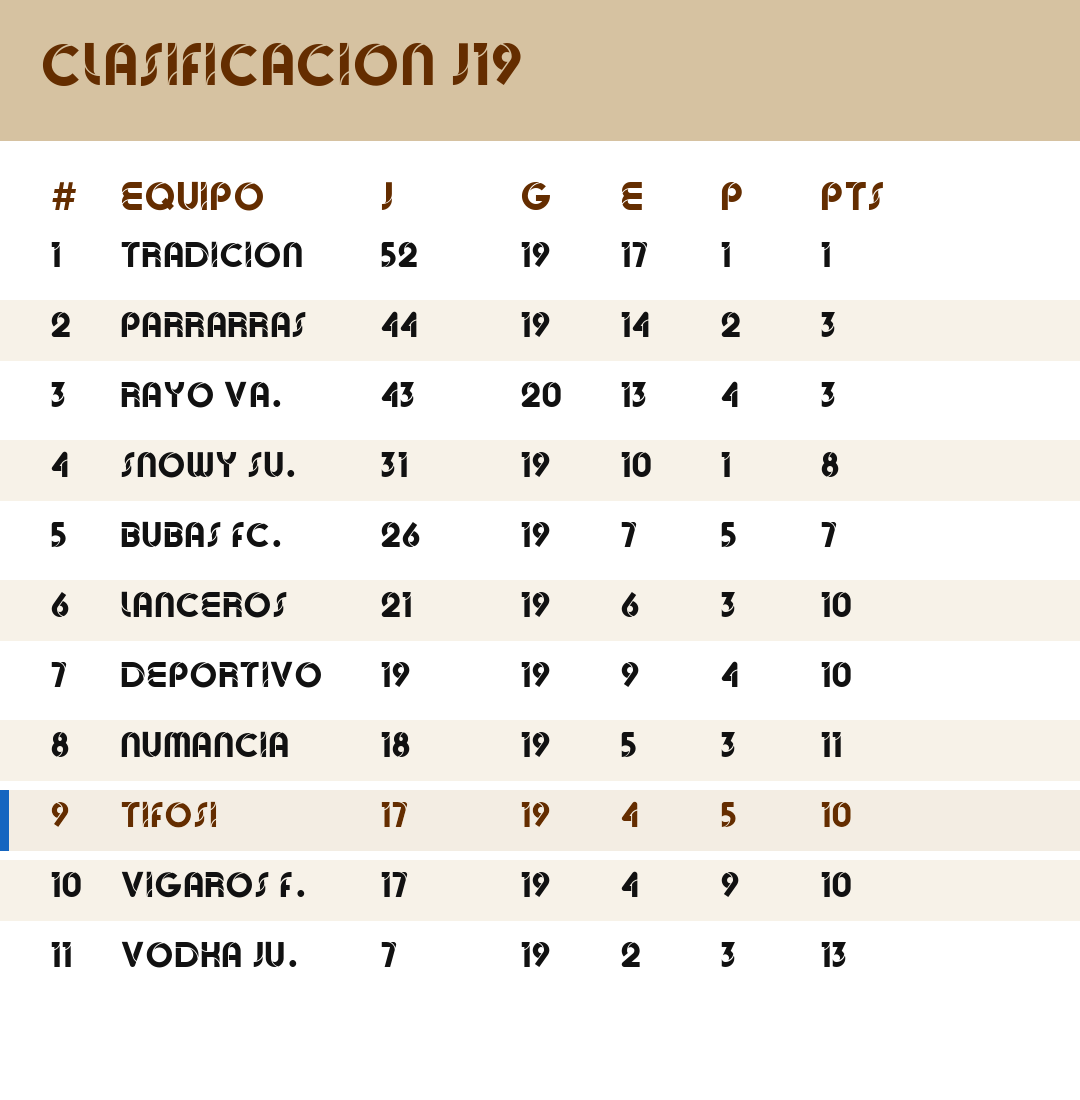
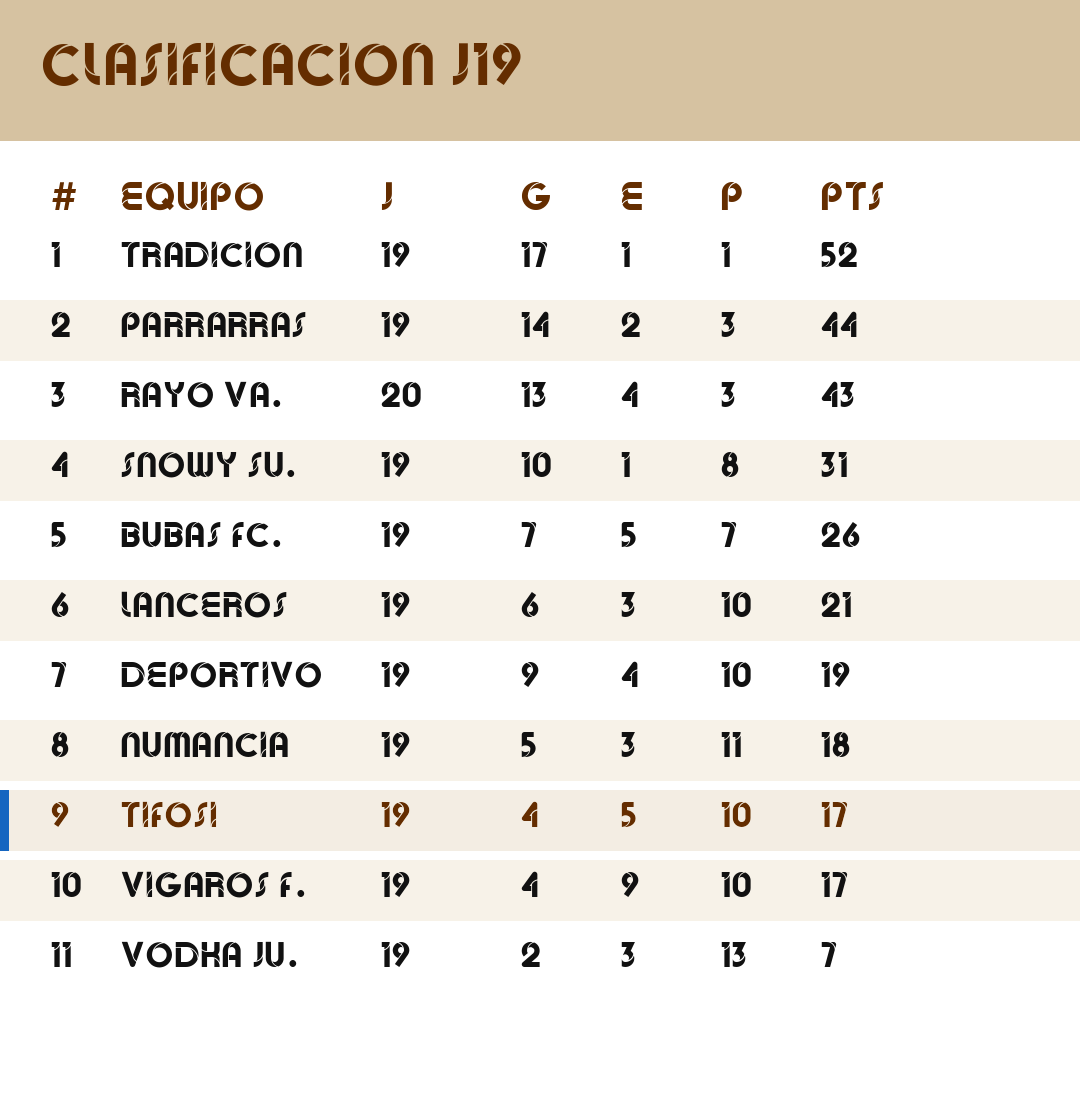
Interpretacion clasificacion

diff --git a/parser.py b/parser.py
@@ -32,8 +32,38 @@ def parse_clasificacion_text(texto):
     texto = normalize_text(texto.replace('\xa0', ' '))
     lines = [re.sub(r'\s+', ' ', line).strip() for line in texto.splitlines()]
 
+    # Detectar línea de encabezado
+    header_line = None
+    for line in lines:
+        if re.search(r'\b(pos|equipo|j|g|e|p|gf|gc|dif|pts)\b', line, re.I):
+            header_line = line
+            break
+
+    num_columns = []
+    if header_line:
+        header_tokens = re.findall(r'\b\w+\b', header_line.lower())
+        for token in header_tokens:
+            if token in ['j', 'pj']:
+                num_columns.append('pj')
+            elif token == 'g':
+                num_columns.append('g')
+            elif token == 'e':
+                num_columns.append('e')
+            elif token == 'p':
+                num_columns.append('p')
+            elif token in ['gf', 'favor']:
+                num_columns.append('favor')
+            elif token in ['gc', 'contra']:
+                num_columns.append('contra')
+            elif token == 'dif':
+                num_columns.append('dif')
+            elif token == 'pts':
+                num_columns.append('pts')
+
     clasificacion = []
     for line in lines:
+        if header_line and line == header_line:
+            continue
         if not line or re.search(r'Clasificaci|Equipo|Pts|Fase|Grupo|MuniM@d', line, re.I):
             continue
 
@@ -47,54 +77,56 @@ def parse_clasificacion_text(texto):
         if not tokens:
             continue
 
-        trailing = []
+        # Extraer números desde el final
+        numbers = []
         i = len(tokens) - 1
         while i >= 0:
             cleaned = re.sub(r'[^\d]', '', tokens[i])
             if cleaned.isdigit():
-                trailing.insert(0, cleaned)
+                numbers.insert(0, int(cleaned))
                 i -= 1
             else:
                 break
 
-        if len(trailing) < 2:
+        if len(numbers) < 2:
             continue
 
-        equipo = ' '.join(tokens[: i + 1]).strip()
+        equipo = ' '.join(tokens[:i + 1]).strip()
         equipo = re.sub(r'\s*@\s*$', '', equipo).strip()
         if not equipo:
             continue
 
-        pj = int(trailing[0])
-        pts = int(trailing[-1])
-        g = e = p = favor = contra = 0
+        item = {"pos": pos, "equipo": equipo}
 
-        if len(trailing) == 7:
-            g = int(trailing[1])
-            e = int(trailing[2])
-            p = int(trailing[3])
-            favor = int(trailing[4])
-            contra = int(trailing[5])
-        elif len(trailing) >= 3:
-            g = int(trailing[1])
-            if len(trailing) >= 4:
-                e = int(trailing[2])
-            if len(trailing) >= 5:
-                p = int(trailing[3])
+        if num_columns and len(numbers) == len(num_columns):
+            for col, val in zip(num_columns, numbers):
+                item[col] = val
+        else:
+            # Fallback al método antiguo
+            pj = numbers[0]
+            pts = numbers[-1]
+            g = e = p = favor = contra = 0
+            if len(numbers) == 7:
+                g = numbers[1]
+                e = numbers[2]
+                p = numbers[3]
+                favor = numbers[4]
+                contra = numbers[5]
+            elif len(numbers) >= 3:
+                g = numbers[1]
+                if len(numbers) >= 4:
+                    e = numbers[2]
+                if len(numbers) >= 5:
+                    p = numbers[3]
+            item.update({"pj": pj, "g": g, "e": e, "p": p, "favor": favor, "contra": contra, "pts": pts})
 
-        dif = favor - contra
-        clasificacion.append({
-            "pos": pos,
-            "equipo": equipo,
-            "pj": pj,
-            "g": g,
-            "e": e,
-            "p": p,
-            "favor": favor,
-            "contra": contra,
-            "dif": dif,
-            "pts": pts
-        })
+        # Calcular dif si no está presente
+        if 'dif' not in item:
+            favor = item.get('favor', 0)
+            contra = item.get('contra', 0)
+            item['dif'] = favor - contra
+
+        clasificacion.append(item)
 
     clasificacion.sort(key=lambda x: x["pos"])
     return clasificacion
